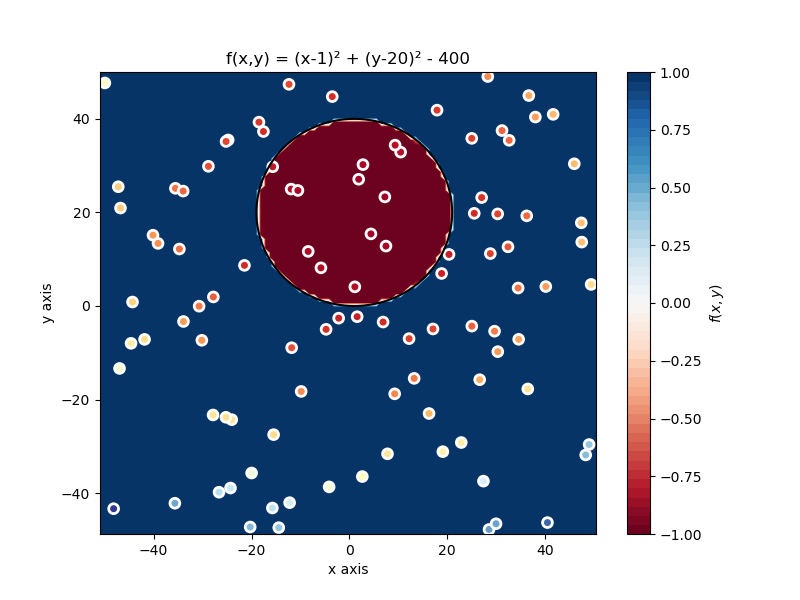
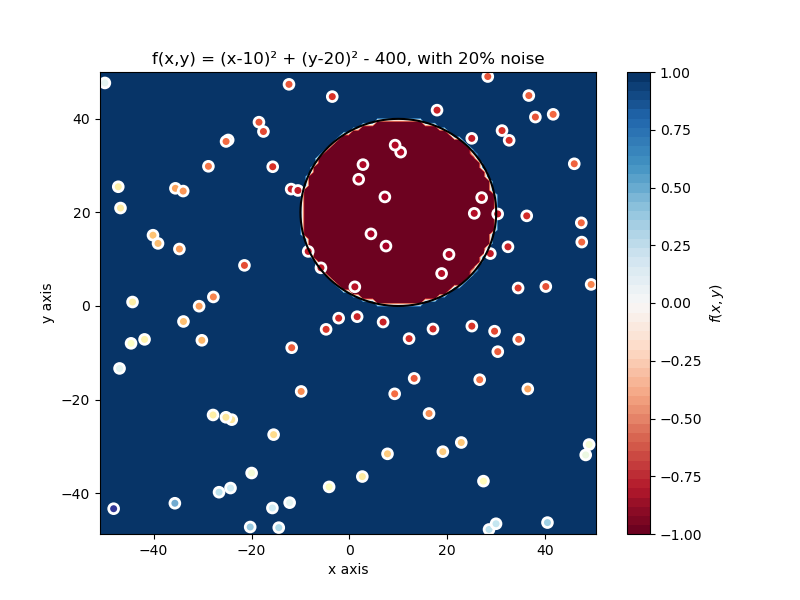
add 3 complex function more

diff --git a/P2/practica 2.py b/P2/practica 2.py
@@ -211,12 +211,28 @@ def plot_datos_cuad(X, y, fz, title='Point cloud plot', xaxis='x axis', yaxis='y
 
 #f(x,y) = (x-1)² + (y-20)² - 400
 def f1(x):
-    return (np.power(x[:,0]-1,2)+np.power(x[:,1]-20,2)-400)
+    return (np.power(x[:,0]-10,2)+np.power(x[:,1]-20,2)-400)
 
-#
+#f(x,y) = 0.5*(x+10)² + (y-20)² - 400
+def f2(x):
+    return ((np.dot(np.power(x[:,0]+10,2),0.5))+np.power(x[:,1]-20,2)-400)
+
+#f(x,y) = 0.5*(x-10)² - (y+20)² - 400
+def f3(x):
+    return ((np.dot(np.power(x[:,0]-10,2),0.5))-np.power(x[:,1]+20,2)-400)
+
+#f(x,y) = y - 20*x² - 5*x + 3
+def f4(x):
+    return (x[:,1]-(np.dot(20,np.power(x[:,0],2)))-(x[:,0].dot(5))+3)
 
 y1 = f1(x)
-plot_datos_cuad(x, y1, f1,'f(x,y) = (x-1)² + (y-20)² - 400, with 20% noise')
+plot_datos_cuad(x, y1, f1,'f(x,y) = (x-10)² + (y-20)² - 400, with 20% noise')
+y2 = f2(x)
+plot_datos_cuad(x, y2, f2,'f(x,y) = 0.5*(x+10)² + (y-20)² - 400, with 20% noise')
+y3 = f3(x)
+plot_datos_cuad(x, y3, f3,'f(x,y) = 0.5*(x-10)² - (y+20)² - 400, with 20% noise')
+y4 = f4(x)
+plot_datos_cuad(x, y4, f4,'f(x,y) = y - 20*x² - 5*x + 3, with 20% noise')
     
 # #CODIGO DEL ESTUDIANTE
 
